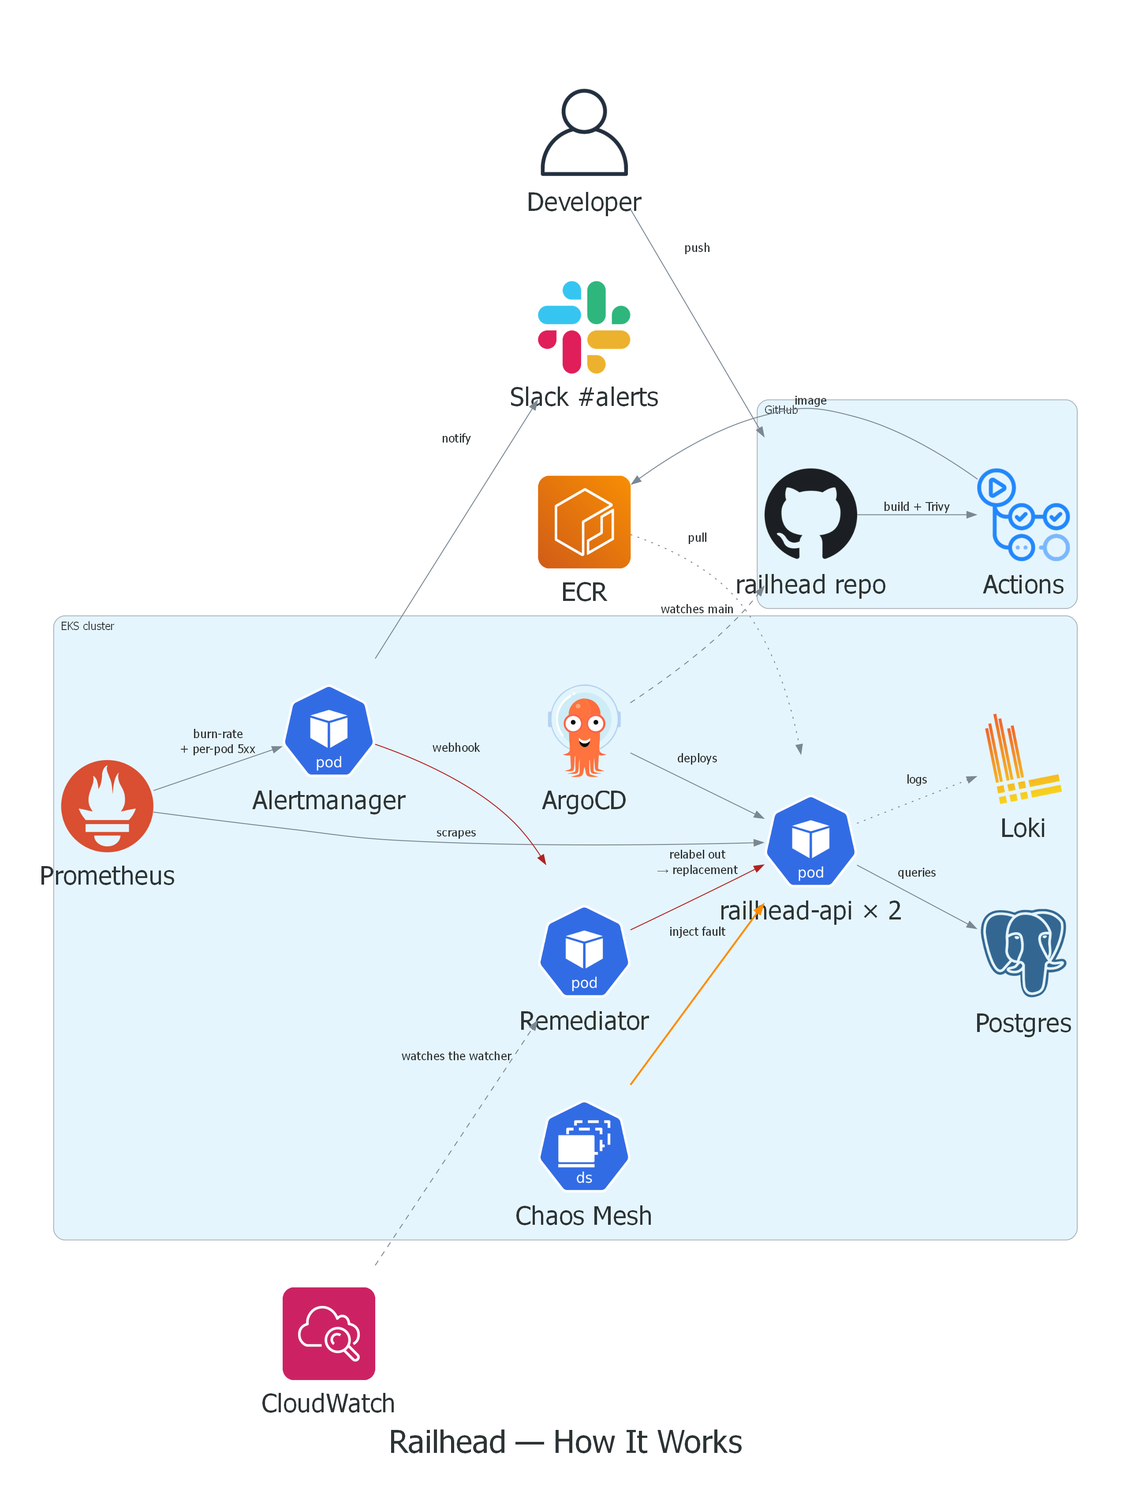
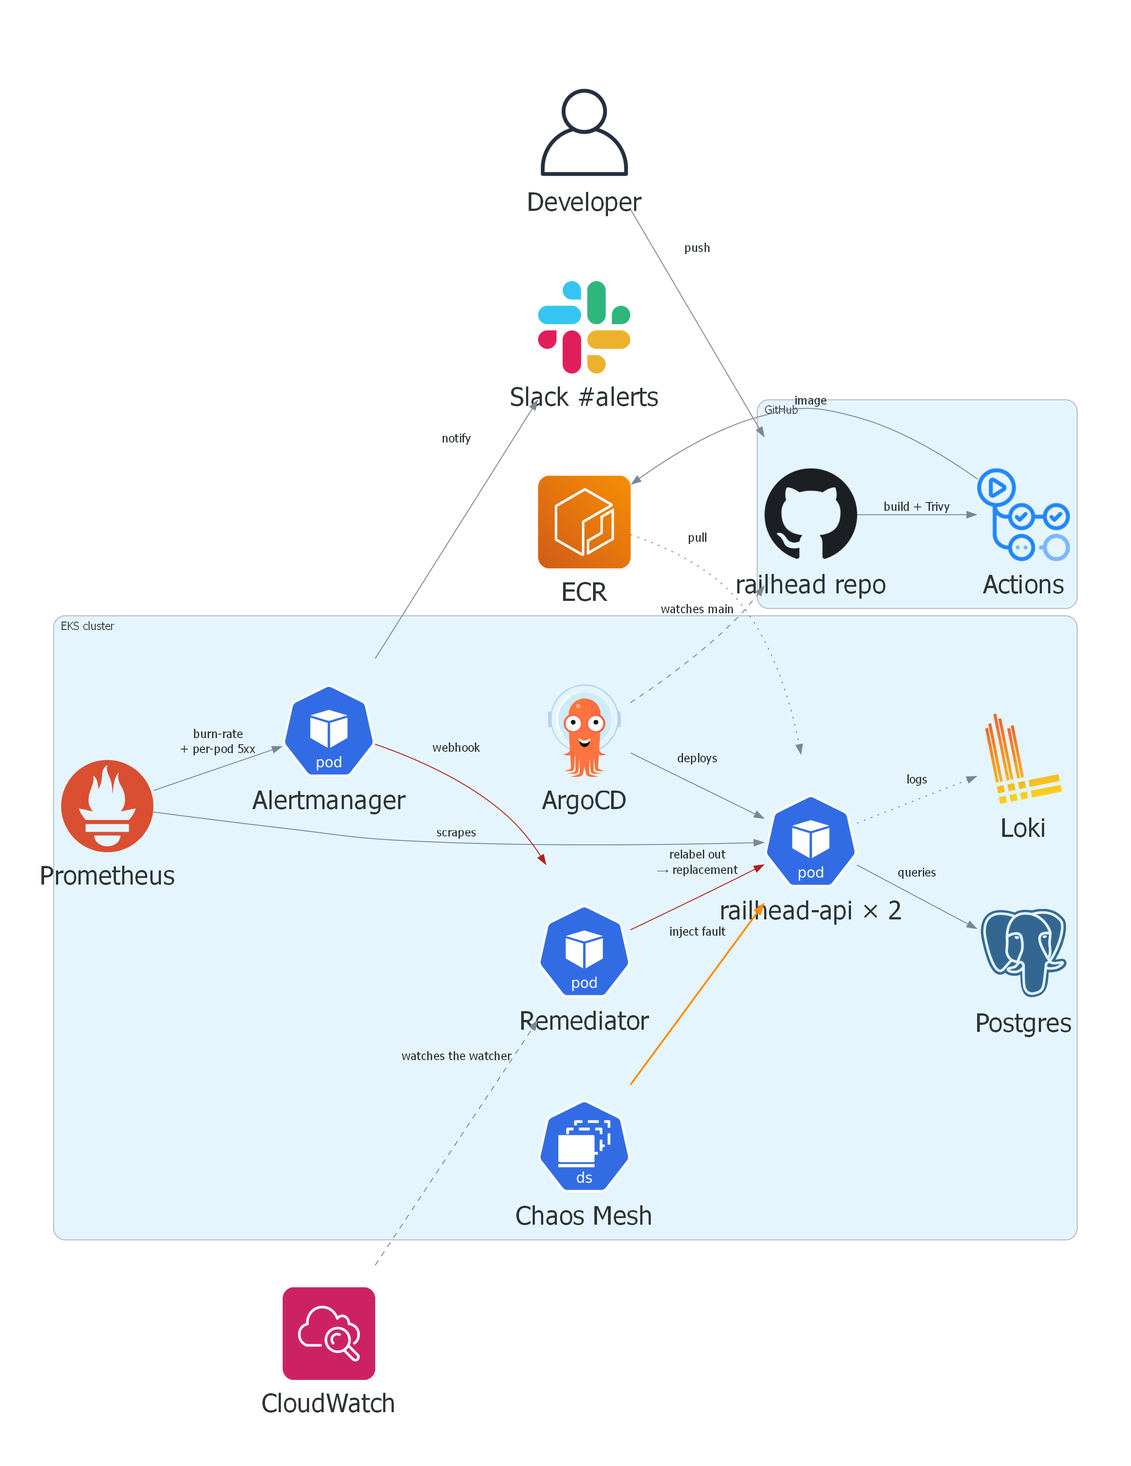
docs: correct two measured figures and record why they were wrong
The ratio range was 0.438-0.550, not 0.471-0.550 -- 0.471 was the value
the alerts page happened to show, not the minimum. The readyReplicas
trace 1,1,1,1,2,2,1,2,2,2 was a remembered sequence and is removed; the
queried series shows one contiguous dip, never reaching 0.

MIN_REMAINING_READY is no longer described as refusing anything. Both
webhooks arrived while readyReplicas read 2, so the guard was evaluated
and permitted each. Gotcha 32 notes the pattern; gotcha 36 is new and
covers the rule the two wrong figures broke.

Also normalises all chaos timestamps to UTC, renames the trigger
validation doc to drop the undefined T2 shorthand, replaces the section
signs, and removes the title from the architecture diagram.

diff --git a/README.md b/README.md
@@ -54,7 +54,7 @@ What persists between sessions is deliberately the cheap half: the S3/DynamoDB s
 
 The synthetic guard test passed because a hand-written payload contained both pods at once. Real Alertmanager never sends that payload. The code was correct and the test was wrong — which is the more transferable lesson.
 
-**What held.** `MIN_REMAINING_READY` refused at every decision point: `readyReplicas` never reached 0, so this was degradation, not an outage. Defence in depth held at the last layer. What failed was the layer meant to prevent churn.
+**No outage resulted.** `readyReplicas` dipped to 1 for about three minutes and never reached 0. A replacement was Ready before the second quarantine, so `MIN_REMAINING_READY` permitted both actions rather than having to block one — the floor was there and was never reached. What failed was the layer meant to prevent churn.
 
 **The fix — recommended, not implemented.** Count pods *recently acted on* rather than pods *currently firing*, using the 15-minute history the remediator already keeps for `MAX_QUARANTINES`. It stays unimplemented on purpose: the measured behaviour is the artifact of this project, and a defect that gets silently patched teaches nobody anything. Mechanism in full: [Known Gotchas](docs/known-gotchas.md) #32 and the [chaos scorecard](docs/week7-chaos-scorecard.md).
 
@@ -70,7 +70,7 @@ flowchart LR
 
 Both arrows out of Alertmanager come from a *single* receiver: every alert reaches the remediator exactly the way it reaches Slack. What's safe to act on is decided in `remediate.py` (`AUTO_REMEDIATE_ALERTS`), not in Alertmanager's routing tree — so changing it is one line in one place, rather than two configs that can drift apart.
 
-**Proven live.** A real pod's DNS was broken and its Postgres connections killed from the server side, producing genuine 500s while `/health` stayed green. The alert fired, the pod was quarantined, a replacement was scheduled, and an untouched control pod confirmed the fault stayed isolated. The fault-injection method is recorded in [`docs/remediator-t2-trigger-validation.md`](docs/remediator-t2-trigger-validation.md); the quarantine itself is in the screenshots below.
+**Proven live.** A real pod's DNS was broken and its Postgres connections killed from the server side, producing genuine 500s while `/health` stayed green. The alert fired, the pod was quarantined, a replacement was scheduled, and an untouched control pod confirmed the fault stayed isolated. The fault-injection method is recorded in [`docs/remediator-trigger-validation.md`](docs/remediator-trigger-validation.md); the quarantine itself is in the screenshots below.
 
 **What it doesn't do.** This stops the bleeding, not the disease: it restores capacity and preserves evidence, but doesn't fix Postgres or the network. Detection takes **~5 minutes** end to end (scrape interval, rate window, alert hold, Alertmanager grouping) — measured at **5m46s** against a network partition. It was **13m52s** until chaos testing found `/metrics` diluting the alert's denominator; that story is in [Chaos Engineering](#chaos-engineering) below, and it is a good illustration that this floor holds only while the denominator is honest. A service mesh could eject a bad endpoint faster, but would destroy the evidence doing it.
 
@@ -90,9 +90,9 @@ Two scenarios were chosen to test the remediator in both directions, because a r
 
 ### Scenario 1 — worked, and surfaced a defect that was then fixed
 
-The remediator handled a fault it was never tuned for. It identified the partitioned pod, quarantined it **12s** after the alert fired, and had a replacement serving traffic **~30s** later, leaving the broken pod running for inspection; the sibling never alerted. Failure latency measured **5.10s / 5.01s / 5.01s** — precisely `connect_timeout=5`, confirming the 5xx came from failed *new* connections.
+The remediator handled a fault it was never tuned for. It identified the partitioned pod, quarantined it **12s** after the alert fired on the first run (30s on the re-run below), and had a replacement serving traffic **~30s** later, leaving the broken pod running for inspection; the sibling never alerted. Failure latency measured **5.10s / 5.01s / 5.01s** — precisely `connect_timeout=5`, confirming the 5xx came from failed *new* connections.
 
-The find was in the alert beneath it. `/metrics` sat in the denominator at **~45%**, holding the error ratio oscillating **0.471–0.550** across a 0.5 threshold with a ceiling of **~0.51** — a **2% margin** — and one PENDING period was **abandoned** mid-count. Detection took **13m52s**; on a shorter fault it would not have fired at all.
+The find was in the alert beneath it. `/metrics` sat in the denominator at **~45%**, holding the error ratio oscillating **0.438–0.550** across a 0.5 threshold with a ceiling of **~0.51** — a **2% margin** — and one PENDING period was **abandoned** mid-count. Detection took **13m52s**; on a shorter fault it would not have fired at all.
 
 Excluding `/metrics` from all five rules and re-running the same scenario: **5m46s**, no abandoned PENDING, ratio pinned at **1.0**. `/metrics` is scraped on a fixed interval while `/items` throughput collapses under fault, so the scrape share rises exactly when the alert needs it lowest. Find, fix, re-measure — the loop the exercise exists to run.
 
@@ -100,7 +100,7 @@ Excluding `/metrics` from all five rules and re-running the same scenario: **5m4
 
 Both api pods were quarantined **300s apart** with **zero refusals**, during the shared outage the guard exists to prevent. Cause: a **self-erasing evidence loop** — quarantining the first pod drops it from the Service, so Prometheus stops scraping it and its alert resolves, leaving the second looking like a lone failure. Dissected under [Automated Remediation](#automated-remediation) above and in [gotcha #32](docs/known-gotchas.md).
 
-**It cost no outage.** `readyReplicas` traced **1,1,1,1,2,2,1,2,2,2** and never reached 0; `MIN_REMAINING_READY` refused every action that would have emptied the Service, and `MAX_QUARANTINES = 3 / 15min` would have stopped a third. The layer preventing churn failed; the layer preventing an outage held. That is defence in depth doing its job.
+**It cost no outage.** `readyReplicas` dipped to 1 for about three minutes and never reached 0 — a replacement was Ready before the second quarantine, so `MIN_REMAINING_READY` permitted both actions rather than having to block one. The floor was there and was never reached; what failed was the layer meant to prevent churn.
 
 ### Check 3 — a blind spot in the monitoring itself
 

diff --git a/docs/known-gotchas.md b/docs/known-gotchas.md
@@ -44,6 +44,7 @@ end and keep their number permanently, even once a later entry supersedes them.
 33. [`/metrics` sits in the SLO denominator and can stop an alert firing](#33)
 34. [`service_number_of_running_pods` counts pod phase, not readiness](#34)
 35. [A PowerShell pipeline returning one object has no `.Count`](#35)
+36. [A number read off a rendered UI is not a measurement](#36)
 
 ---
 
@@ -348,7 +349,9 @@ Two conditions combined, and the guard needed only one:
 
 Alertmanager grouping worked exactly as configured. Two paper reviews predicted this failure and both blamed grouping; both were wrong.
 
-The `ready_replicas` backstop was then defeated benignly: the ReplicaSet's replacement reached Ready, `readyReplicas` returned to 2, and `ready - 1 >= MIN_REMAINING_READY` passed. It was **not a total outage** — that backstop held at every decision. What failed was the layer meant to prevent churn during a shared fault.
+The `ready_replicas` backstop was then defeated benignly: the ReplicaSet's replacement reached Ready, `readyReplicas` returned to 2, and `ready - 1 >= MIN_REMAINING_READY` passed. It was **not a total outage** — but note the precise wording: that guard was *evaluated and permitted the action*. It never refused anything.
+
+**A guard that permits has not "refused".** That distinction was lost three separate times while writing this up — in the README summary, in the alert's own `description` annotation, and in a code comment beside the rule — each drifting into language that credited a control with *acting* when it had merely *passed*. It reads better, which is exactly why it happens, and it is the kind of claim someone relies on at 3am. This entry stated it correctly from the start, which is the only reason the drift in the summaries was visible at all. When writing up a safety control, check whether it fired or was simply never the binding constraint.
 
 **What to do.** Count pods from the alert *group* rather than firing-only; or gate on Deployment-level unavailable replicas; or add a cooldown between quarantines. Not applied — the measured behaviour is the artifact.
 
@@ -361,7 +364,7 @@ The `ready_replicas` backstop was then defeated benignly: the ReplicaSet's repla
 `RailheadAPIPodErrorRate` and both SLO burn-rate families excluded
 `handler!="/health"` and nothing else. `/metrics` is instrumented by the same middleware, and Prometheus scrapes it at roughly the rate the worker generates real traffic — so scrape traffic was measured at **~45% of the alert's denominator**.
 
-During a single-pod partition, with *every* `/items` request returning 5xx, the per-pod error ratio ceiling was about `0.05 / (0.05 + 0.048) = 0.51` against a `0.5` threshold. The observed ratio oscillated between **0.471 and 0.550**, and the first `PENDING` period was abandoned mid-count when it dipped, resetting the `for: 2m` timer. Detection took **13m52s** against a predicted 4-6 minutes, and needed two attempts.
+During a single-pod partition, with *every* `/items` request returning 5xx, the per-pod error ratio ceiling was about `0.05 / (0.05 + 0.048) = 0.51` against a `0.5` threshold. The observed ratio oscillated between **0.438 and 0.550** — re-queried from Prometheus afterwards rather than read off the alerts page, which is why the low end is 0.438 and not the 0.471 the page happened to be showing. The first `PENDING` period was abandoned mid-count when it dipped, resetting the `for: 2m` timer. Note the observed max of 0.550 exceeded the 0.51 ceiling calculated above: that calculation used one snapshot of the traffic mix, and the `/metrics` share actually moved between **32.8% and 60.9%** across the fault. Detection took **13m52s** against a predicted 4-6 minutes, and needed two attempts.
 
 The delay is not the problem. **A 2% margin means the alert can fail to fire at all** on a shorter fault, or if the scrape interval were tightened, or if real traffic dropped. The pod would be serving nothing but errors and nothing would say so.
 
@@ -396,3 +399,16 @@ The filter was `($_.status.containerStatuses | Where-Object { $_.ready }).Count 
 The script already wrapped its *outer* pipeline in `@()` for this exact reason. Only the inner one was missed, which is the failure mode worth remembering: the idiom is known, and it still gets dropped one level down.
 
 Two lessons. **`@()` around any pipeline whose `.Count` you intend to read**, without exception, because the bug only appears when the result happens to have one element — so it passes every test with two or more and fails on the realistic case. And the fixed version counts *not-ready* containers and requires zero, which is both immune to the same trap and semantically stricter: it requires every container in the pod to be ready rather than at least one.
+
+<a id="36"></a>
+### 36. A number read off a rendered UI is not a measurement
+
+Two figures published in the Week 7 write-ups were wrong, and both failed the same way.
+
+The per-pod error ratio was recorded as oscillating **0.471–0.550**. Re-querying the same expression over the same window afterwards returns a minimum of **0.438**: `0.500, 0.550, 0.526, 0.471, 0.471, 0.471, 0.500, 0.471, 0.438, ...`. 0.471 was the value the Prometheus alerts page happened to be displaying, and it recurs often enough to look like a floor. It is not one.
+
+`readyReplicas` was recorded as the sequence **1,1,1,1,2,2,1,2,2,2**, transcribed from a `kubectl get deploy -w` that was being watched rather than captured. Querying `kube_deployment_status_replicas_ready` shows something different in shape: a **single** contiguous dip — 2 until 20:28:08, 1 for seven consecutive 30s scrapes, 2 from 20:31:38 — not the two dips the sequence implies. The headline conclusion survived (it never reached 0), but the evidence offered for it did not exist.
+
+**Prometheus held both series the whole time.** Nothing prevented querying them; the numbers were simply taken from whatever was already on screen, at a moment chosen by when someone happened to look. A rendered page is a sample of a series at an arbitrary instant, and watching a stream is not the same as recording it.
+
+**The rule: if a number goes into a document, query the source.** Screenshots are evidence that something occurred; they are not the measurement. Retention makes this nearly free — Prometheus here keeps 5 days and CloudWatch 15 months, so a claim written up within that window can always be checked before it is published rather than after. Both corrections above came from queries run after the fact, which is the expensive way to find out.

diff --git a/docs/week7-chaos-scorecard.md b/docs/week7-chaos-scorecard.md
@@ -1,12 +1,13 @@
 # Week 7 chaos scorecard
 
-Two scenarios plus one check, run **2026-09-04** against a live cluster, with §1
-re-run **2026-09-05** after a fix. Predictions were written down before each run
-and are not edited afterwards.
+Two scenarios plus one check, run **2026-09-04** against a live cluster, with
+scenario 1 re-run **2026-09-05** after a fix. Predictions were written down before each run
+and are not edited afterwards. **All timestamps are UTC**, matching what Prometheus
+and the container logs record.
 
 **None of these defects were findable by reading the code.** Two independent
-design reviews ran against the remediator beforehand; both predicted §2 would
-fail, and **both named the wrong mechanism**, blaming Alertmanager's grouping —
+design reviews ran against the remediator beforehand; both predicted scenario 2
+would fail, and **both named the wrong mechanism**, blaming Alertmanager's grouping —
 which worked correctly throughout. A defect whose cause two careful reviews get
 wrong is one only a live run will explain.
 
@@ -21,7 +22,7 @@ Outcomes: Self-healed · Auto-remediated · Correctly refused · Needed a human 
 
 **No code was changed, and the measured behaviour is the artifact** — the findings
 below are recorded as they happened, not patched away. One exception, made
-deliberately: the `/metrics` denominator defect in §1 was fixed and the scenario
+deliberately: the `/metrics` denominator defect in scenario 1 was fixed and that
 re-run to measure it, because it is a matcher change that can only narrow what the
 rule counts. The before and after are both kept. Everything else stays a
 recommendation. Commands: [`week7-chaos-runbook.md`](week7-chaos-runbook.md).
@@ -55,7 +56,7 @@ rule excluded only `handler!="/health"`, so scrape traffic was **~45% of the
 denominator**:
 `/items` 5xx 0.0185/s, `/items` 2xx 0.0407/s, **`/metrics` 2xx 0.0482/s**. With
 every `/items` request failing the ceiling is `0.05 / 0.098 ≈ 0.51` against a 0.5
-threshold — a **2% margin**. The ratio oscillated **0.471–0.550**, so the first
+threshold — a **2% margin**. The ratio oscillated **0.438–0.550**, so the first
 PENDING was abandoned mid-count.
 
 The delay is not the problem: **on a shorter fault, a tighter scrape interval, or
@@ -100,15 +101,15 @@ procedure, no `/metrics` polling.
 | PENDING abandoned | **yes, once** | **none** |
 | FIRING | **13m52s** | **5m46s** |
 | Quarantine | 12s after FIRING | 30s after FIRING |
-| Ratio behaviour | oscillated 0.471–0.550 | climbed monotonically to **1.0000** |
+| Ratio behaviour | oscillated 0.438–0.550 | climbed monotonically to **1.0000** |
 | Margin over the 0.5 threshold | **2%** | **100%** |
 
 ```
-07:56:56  inject
-08:00:42  ratio crosses 0.5  -> PENDING
-08:01:50  ratio 1.0000       (5m window now holds only fault samples)
-08:02:42  FIRING             (5m46s)
-08:03:12  quarantined; replacement Ready, Deployment back to 2/2
+13:56:56  inject
+14:00:42  ratio crosses 0.5  -> PENDING
+14:01:50  ratio 1.0000       (5m window now holds only fault samples)
+14:02:42  FIRING             (5m46s)
+14:03:12  quarantined; replacement Ready, Deployment back to 2/2
 ```
 
 **Detection went from 13m52s to 5m46s — 8m06s faster.** The speed is the smaller
@@ -131,7 +132,7 @@ are comparable, but this is not a controlled A/B and shouldn't be read as one.
 This is the one recommendation from Week 7 that was implemented rather than left
 on record, because it is a matcher change with no behavioural risk: it narrows
 what the rule counts and cannot make the alert fire on anything it didn't before.
-The guard defect in §2 stays unfixed on purpose.
+The guard defect in scenario 2 stays unfixed on purpose.
 
 **Evidence:** `railhead-alert-rules.png` — all five rules across all three groups
 carrying `handler!~"/health|/metrics"`, verified loaded in Prometheus with group
@@ -172,12 +173,16 @@ counts only `status == "firing"`, so webhook 2 contained both pods but scored
 `multi_pod=False`. Alertmanager grouping worked correctly; two paper reviews
 blamed it and both were wrong. Full mechanism: gotcha #32.
 
-**Severity, corrected: not a total outage.** `readyReplicas` never reached 0 —
-trace **1,1,1,1,2,2,1,2,2,2** — and `MIN_REMAINING_READY` held at every decision.
-Defence in depth held at the last layer. What failed was the layer meant to
-prevent churn: two pods quarantined and two replacements spawned during an
-outage where every replacement was equally broken.
-`MAX_QUARANTINES = 3 / 15min` would have stopped a third.
+**Severity, corrected: not a total outage.** Queried from
+`kube_deployment_status_replicas_ready`, `readyReplicas` was 2 until 20:28:08,
+**1** for seven consecutive 30s scrapes (20:28:08–20:31:08), and back to 2 from
+20:31:38 — a single dip of about three minutes, and **never 0**. Both webhooks
+arrived while it read 2, so `ready - 1 >= MIN_REMAINING_READY` **passed** each
+time: the guard permitted both quarantines rather than blocking either. The floor
+was there and was never reached. What failed was the layer meant to prevent
+churn: two pods quarantined and two replacements spawned during an outage where
+every replacement was equally broken. `MAX_QUARANTINES = 3 / 15min` would have
+stopped a third — reasoning, not a measurement; no third alert arrived.
 
 A code review found the risk; only running it found the cause.
 
@@ -213,7 +218,7 @@ Fix and the independence tradeoff: gotcha #34.
 **Captured (6):** `chaos-scenario1-remediator-slack` ·
 `chaos-scenario1-failure-mechanism` · `chaos-scenario1-quarantined-labels` ·
 `chaos-scenario2-grouped-alert` · `chaos-scenario2-cascade-state` ·
-`railhead-alert-rules` (**re-captured 2026-09-05** after the §1 fix — it shows the
+`railhead-alert-rules` (**re-captured 2026-09-05** after the scenario 1 fix — it shows the
 rules as they stand now, not as they were during the 13m52s run)
 
 **Three planned screenshots do not exist. Each absence is a result:**

diff --git a/docs/runbooks/api-high-error-rate.md b/docs/runbooks/api-high-error-rate.md
@@ -46,7 +46,7 @@ Only 5xx counts as "bad" here — 4xx (bad client requests) is deliberately excl
 
 ## Common causes
 
-- **Postgres unreachable.** The single most likely cause given this app's shape — every `/items` call needs a DB connection, `/health` doesn't. If only `/items` is failing while `/health` stays clean, this is almost certainly it. Check `kubectl get pods -n railhead -l app.kubernetes.io/name=postgresql` and `kubectl logs` on the api pods for `psycopg2.OperationalError`. (This is exactly the failure mode used to test this alert end-to-end: Postgres was deliberately taken offline and hit with a burst of traffic to trigger it for real. The closely-related per-pod fault injection is recorded step-by-step in [`docs/remediator-t2-trigger-validation.md`](../remediator-t2-trigger-validation.md).)
+- **Postgres unreachable.** The single most likely cause given this app's shape — every `/items` call needs a DB connection, `/health` doesn't. If only `/items` is failing while `/health` stays clean, this is almost certainly it. Check `kubectl get pods -n railhead -l app.kubernetes.io/name=postgresql` and `kubectl logs` on the api pods for `psycopg2.OperationalError`. (This is exactly the failure mode used to test this alert end-to-end: Postgres was deliberately taken offline and hit with a burst of traffic to trigger it for real. The closely-related per-pod fault injection is recorded step-by-step in [`docs/remediator-trigger-validation.md`](../remediator-trigger-validation.md).)
 - **A bad deploy crash-looping.** Check `kubectl get pods -n railhead` for `CrashLoopBackOff`, then `kubectl logs <pod> --previous` for the actual startup exception. A `TypeError` or import error at module load time will crash every pod immediately and consistently — the API's own metrics endpoint won't even come up, so Prometheus will also show `TargetDown` for `railhead-api` alongside this alert.
 - **Resource exhaustion.** Both api and worker have tight CPU/memory limits (see `kubernetes/helm-charts/railhead-app/values.yaml`). An OOMKilled pod restarts and briefly serves nothing while it comes back up. Check `kubectl describe pod` for `OOMKilled` in recent terminated-container state.
 - **Postgres itself unhealthy**, not just unreachable — e.g. its own PVC full, or a bad password after a config change (see the Postgres-auth-instability gotcha in project history: ArgoCD re-rendering the Bitnami chart can rotate its auto-generated password out from under an already-initialized pod; this repo now pins that password to a Terraform-managed secret specifically to prevent it, but it's worth ruling out if the underlying infra was touched recently).

diff --git a/docs/week7-chaos-runbook.md b/docs/week7-chaos-runbook.md
@@ -74,7 +74,7 @@ is DB-free, so readiness must not flap.
 
 **First run (2026-09-04), `/metrics` still in the denominator: FIRING at 13m52s.**
 PENDING 5m39s → **abandoned** 7m12s → PENDING 11m49s → FIRING 13m52s, oscillating
-0.471–0.550 around the threshold.
+0.438–0.550 around the threshold.
 
 **Re-run (2026-09-05) after excluding `/metrics`: FIRING at 5m46s.** PENDING
 3m46s, no abandoned period, ratio climbing monotonically to 1.0. This is what to
@@ -149,7 +149,8 @@ grep -cE "POST /webhook" <remediator log>
 grep -E "Quarantined|Refusing" <remediator log>
 ```
 **Measured: it did not.** Both pods quarantined **300s apart**, zero refusals,
-two webhooks each carrying one firing pod. Mechanism: scorecard §2, gotcha #32.
+two webhooks each carrying one firing pod. Mechanism: the scorecard's scenario 2
+section, and gotcha #32.
 
 > `chaos-scenario2-grouped-alert.png` · `chaos-scenario2-cascade-state.png`
 > `chaos-scenario2-multipod-refusal-slack.png` — **does not exist; there was no
